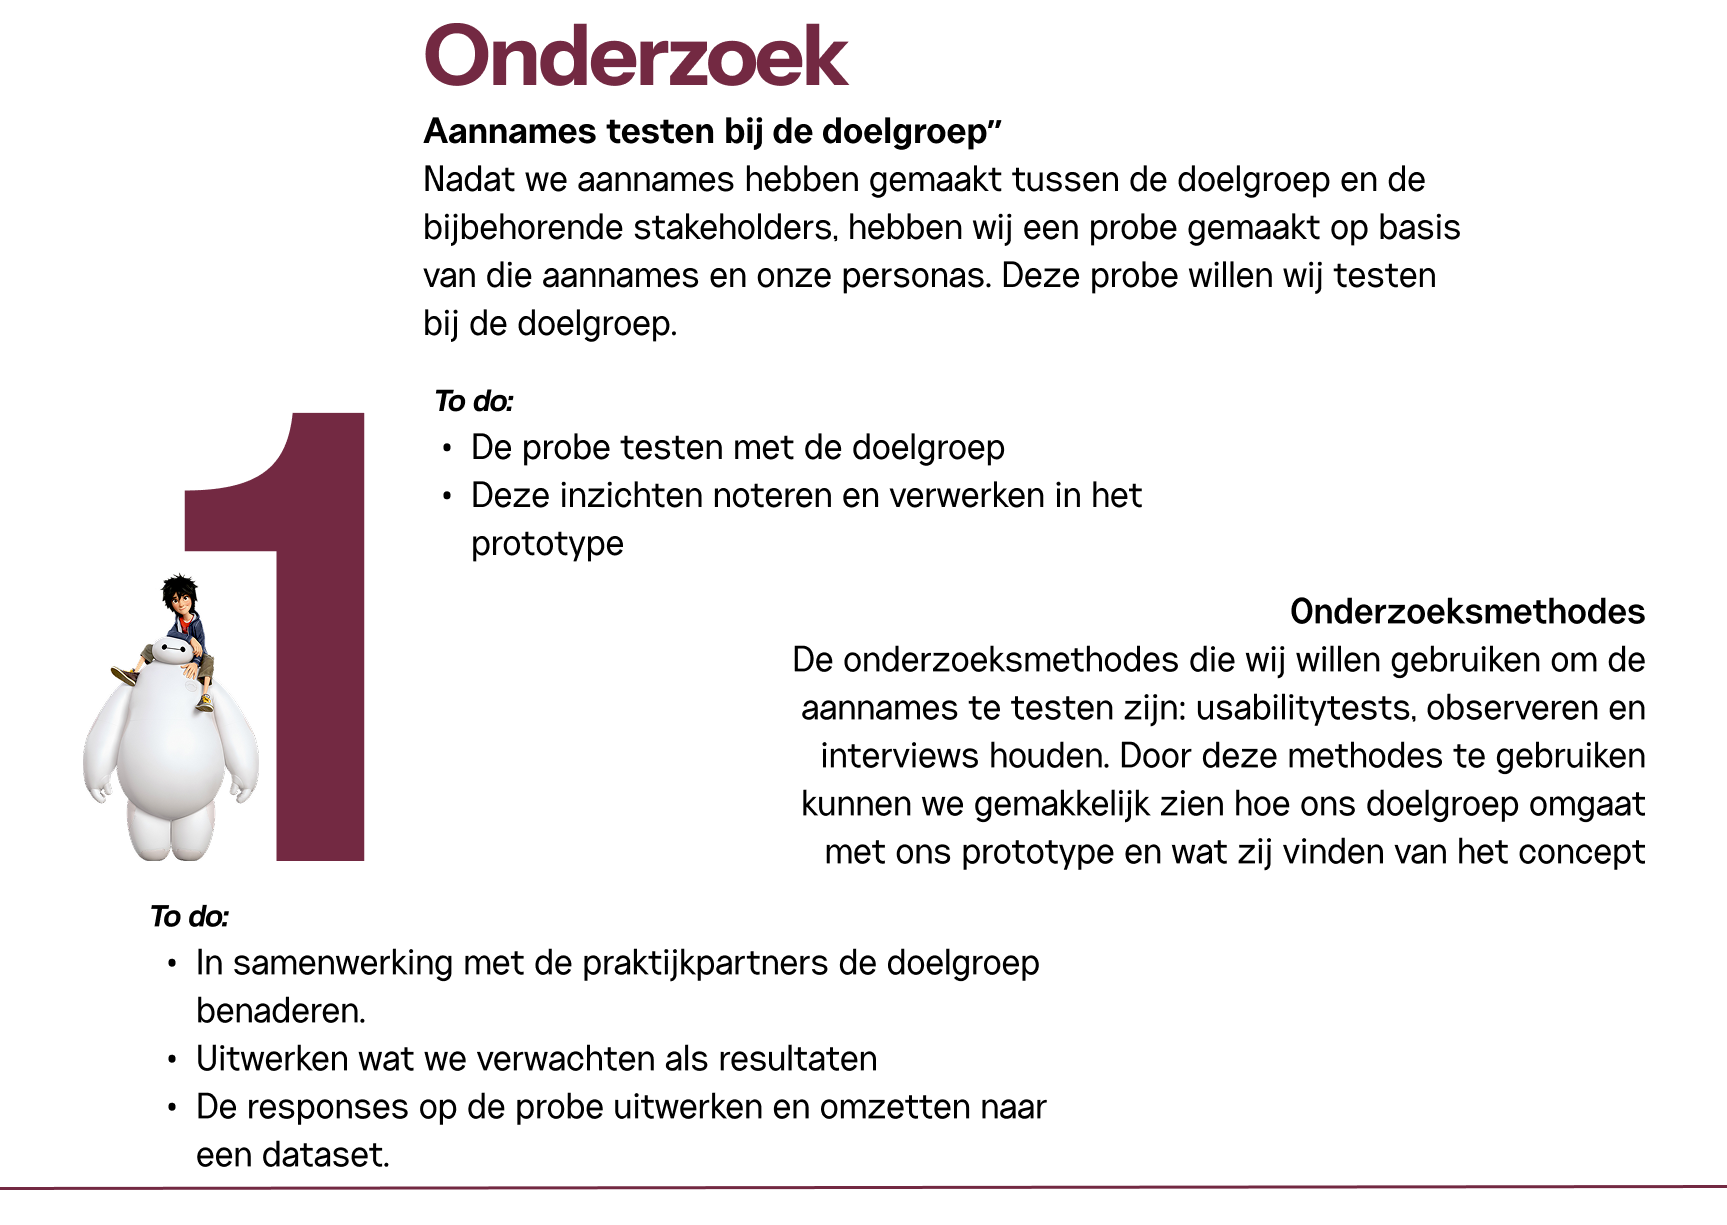
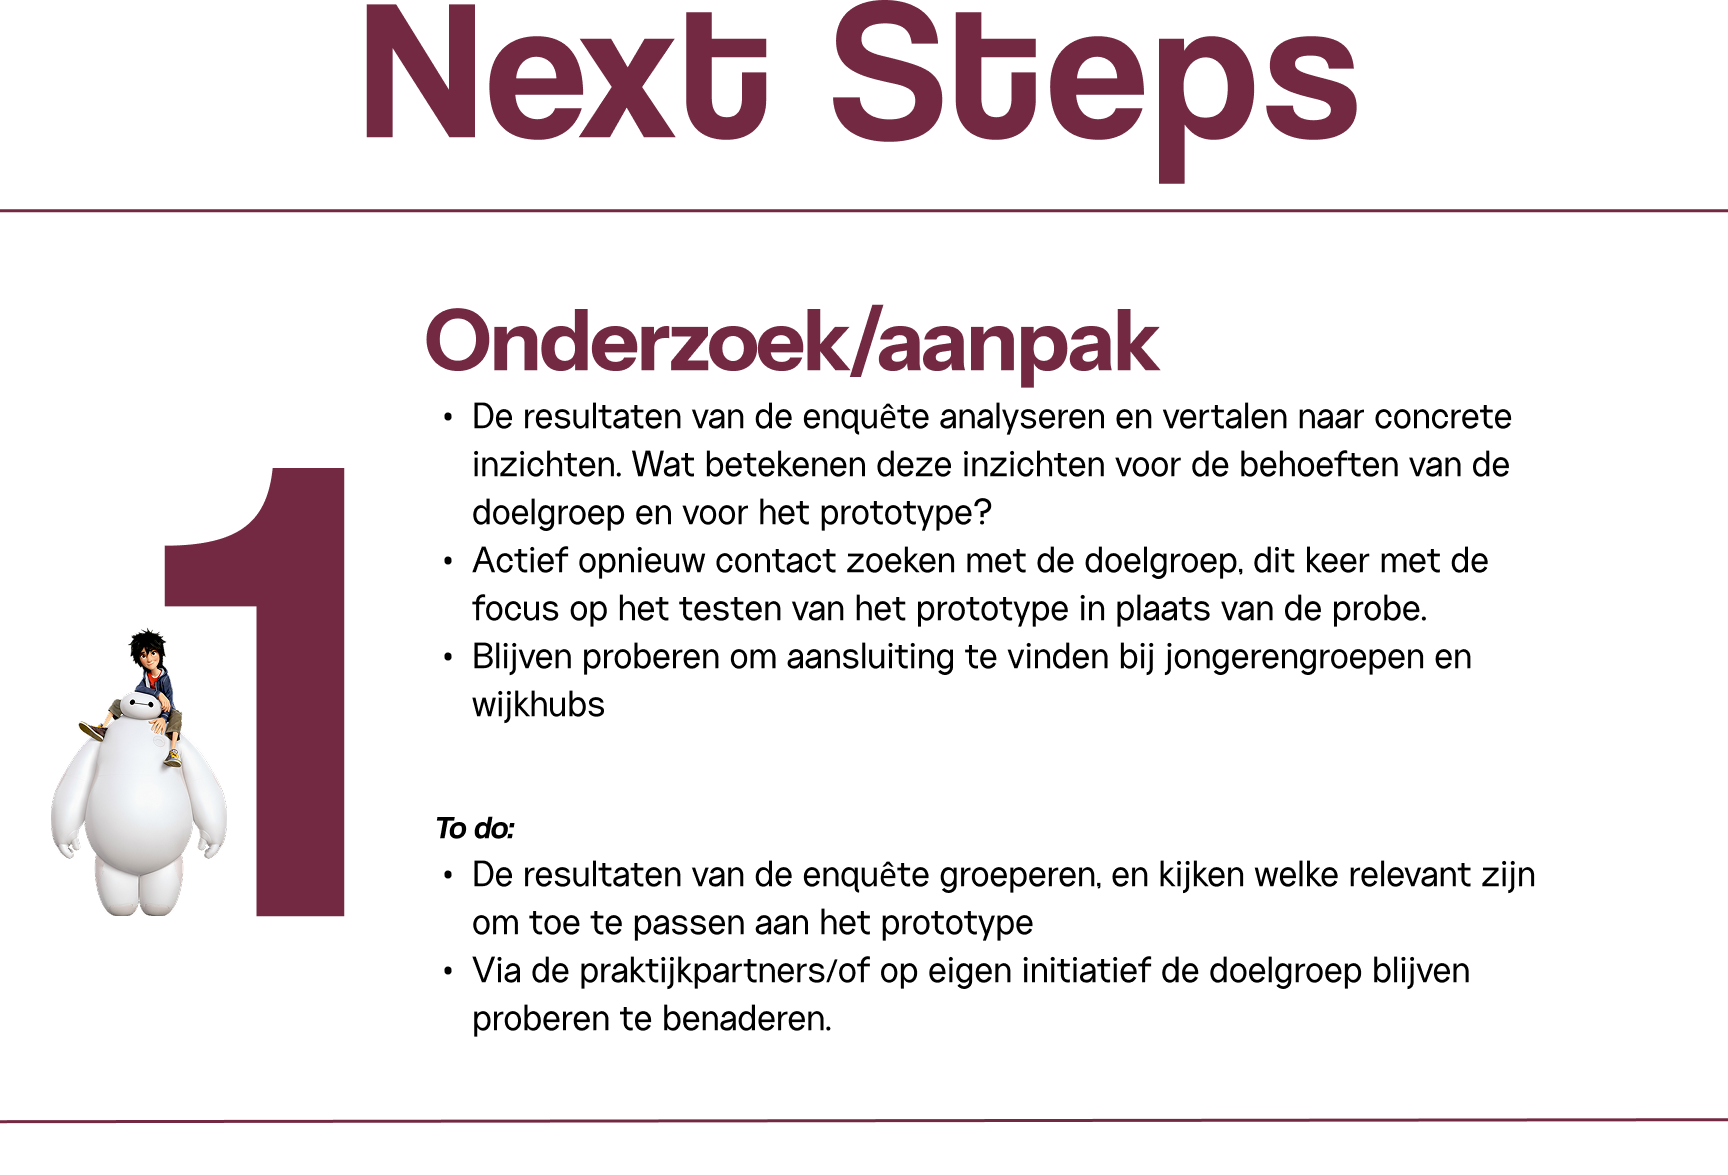
updated to sprint 3 content

Changed region(s): [[0.0, 0.0, 1.0, 0.7047], [0.0, 0.337, 1.0, 0.9804]]

diff --git a/onepager/sprint 3/index.html b/onepager/sprint 3/index.html
@@ -69,41 +69,28 @@
         <img src="images/desktop/Situaties.png" id="situaties" alt=""
             style="width: 100vw; height: auto; overflow-x: hidden;">
         <img src="images/desktop/Ontwerpvragen.png" id="ontwerpvragen" alt="" style="width: 50vw; height: auto;">
-            <div class="persona-section">
-                <h1 class="title-kernwaarden">Onze individuele persona's</h1>
-                <div class="arrow prev" onclick="movePersona(-1)"></div>
-                <div class="arrow next" onclick="movePersona(1)"></div>
-                <div class="carousel-container persona-container">
-
-                    <div class="carousel-track" id="personaTrack">
-                        <div class="persona-group">
-                            <img src="images/personas/ISRA persona 1.png" alt="Persona 1" class="persona-img">
-                            <img src="images/personas/YIM persona 1.png" alt="Persona 2" class="persona-img">
-                        </div>
-                        <div class="persona-group">
-                            <img src="images/personas/KOEN persona 1.png" alt="Persona 3" class="persona-img">
-                            <img src="images/personas/DAVID persona 1.png" alt="Persona 4" class="persona-img">
-                        </div>
-                        <div class="persona-group">
-                            <img src="images/personas/KIANGA persona 1.png" alt="Persona 5" class="persona-img">
-                            <img src="images/personas/JEAN PAUL persona 1.png" alt="Persona 6" class="persona-img">
-                        </div>
-                    </div>
-                </div>
-            </div>
-
-        <img src="images/desktop/Onze definitieve persona.png" id="definitieve-persona" alt=""
-            style="width: 80vw; height: auto; overflow-x: hidden; margin-bottom: 75px;">        
-        <img src="images/desktop/Key insights.png" id="insights" alt=""
-            style="width: 100vw; height: auto; overflow-x: hidden; margin-bottom: 75px;">
-        <img src="images/desktop/Concepten.png" id="concepten" alt=""
-            style="width: 100vw; height: auto; overflow-x: hidden; margin-bottom: 75px;">
         <img src="images/desktop/Probe.png" id="probe" alt=""
+            style="width: 100vw; height: auto; overflow-x: hidden;">
+
+            <h1 class="title-kernwaarden">Prototype</h1>
+            <img src="images/desktop/Prototype stap 1.png" alt=""
+            style="width: 80vw; height: auto; overflow-x: hidden; margin-bottom: 75px;">
+            <img src="images/desktop/Prototype stap 2.png" alt=""
+            style="width: 80vw; height: auto; overflow-x: hidden; margin-bottom: 75px;">
+            <img src="images/desktop/Prototype stap 3.png" alt=""
+            style="width: 80vw; height: auto; overflow-x: hidden; margin-bottom: 75px;">
+            <img src="images/desktop/Prototype stap 4.png" alt=""
+            style="width: 80vw; height: auto; overflow-x: hidden; margin-bottom: 75px;">
+        <img src="images/desktop/Enquete.png" alt=""
             style="width: 100vw; height: auto; overflow-x: hidden; margin-bottom: 75px;">
-        <img src="images/desktop/Next steps doel.png" alt="" style="width: 100vw; height: auto; overflow-x: hidden;">
+        <img src="images/desktop/enquete resultaten.png" alt=""
+            style="width: 90vw; height: auto; overflow-x: hidden; margin-bottom: 100px;">
+        
         <img src="images/desktop/Next steps onderzoek.png" alt=""
             style="width: 100vw; height: auto; overflow-x: hidden;">
-        <img src="images/desktop/Next steps ontwikkelen+testen.png" alt=""
+        <img src="images/desktop/Next steps ontwikkelen.png" alt=""
+            style="width: 100vw; height: auto; overflow-x: hidden;">
+        <img src="images/desktop/Next steps testen.png" alt=""
             style="width: 100vw; height: auto; overflow-x: hidden;">
     </main>
     <footer>
